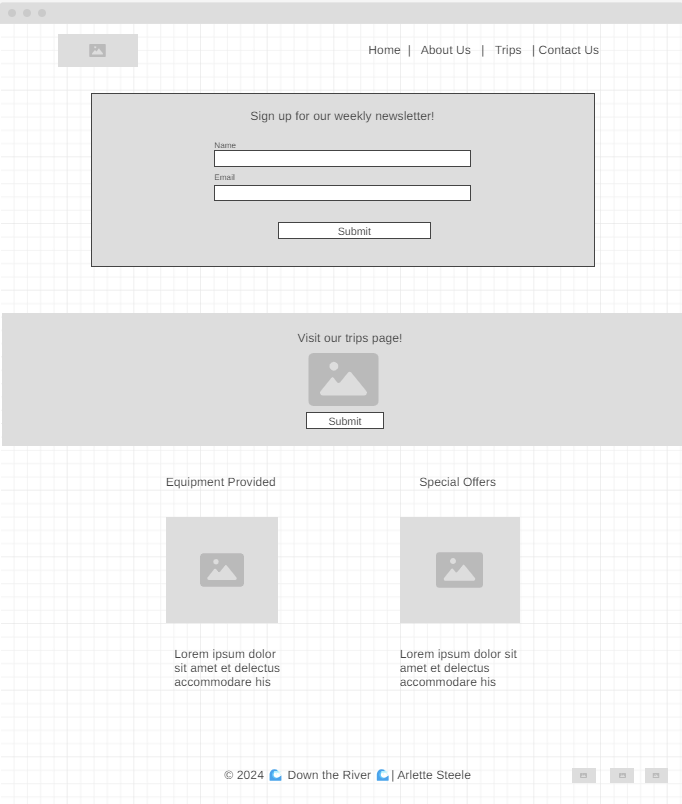
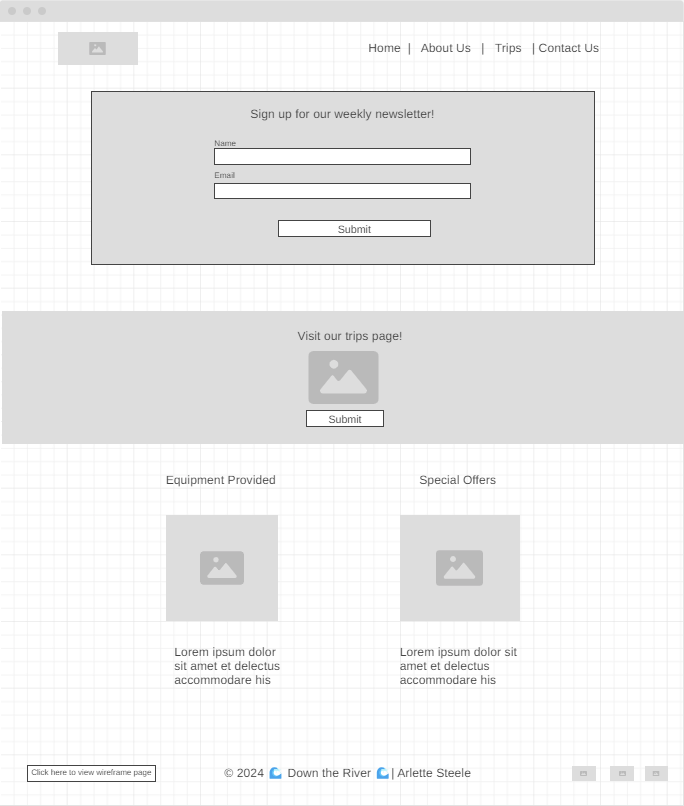
new update

diff --git a/wwr/index.html b/wwr/index.html
@@ -54,7 +54,10 @@
             </section>
         </main>
         <footer>
-            <a href="images/home-wireframe.png" target="_blank">View Home Wireframe</a>
+            <div class="wireframe">
+                <form action="images/home-wireframe.png"></form>
+                    <button type="submit" value="wireframe">Click here to view the home wireframe</a>
+            </div>
             <p>© 2024 🌊 Down the River 🌊| Arlette Steele</p>
             <nav class="Sociallinks">
                 <a href="https://www.facebook.com/">

diff --git a/wwr/styles/rafting.css b/wwr/styles/rafting.css
@@ -535,5 +535,9 @@ footer {
     margin-bottom: 150px;
 }
 
+.wireframe button {
+    background-color: var(--buttom-color);
+    color: var(--background-color);
+}
 
      
